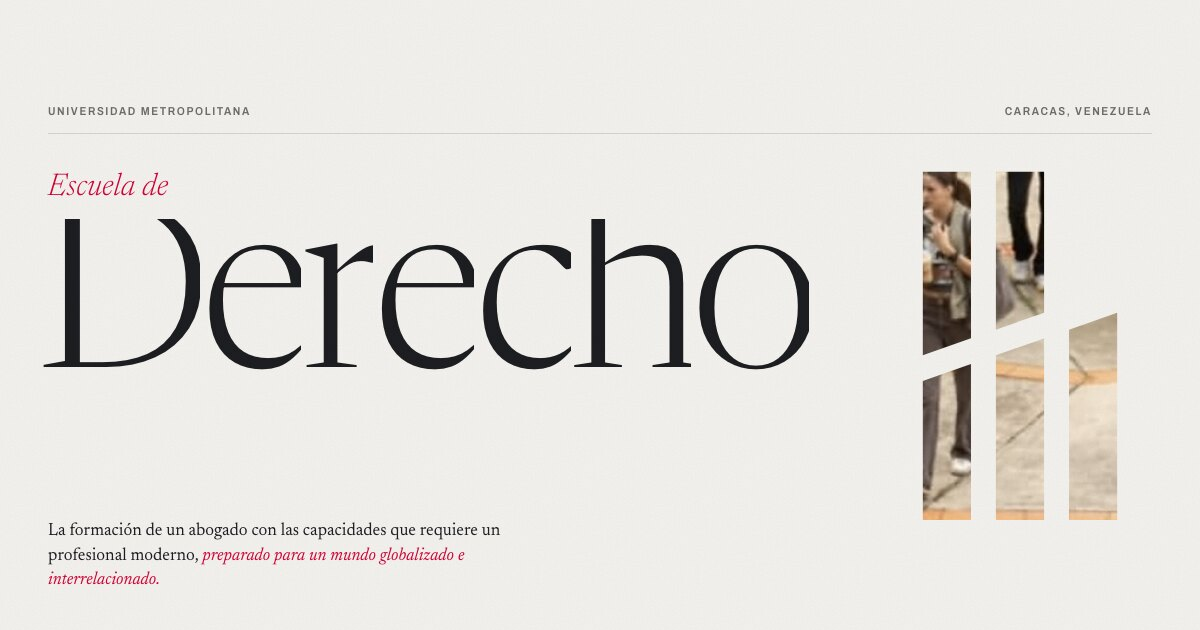
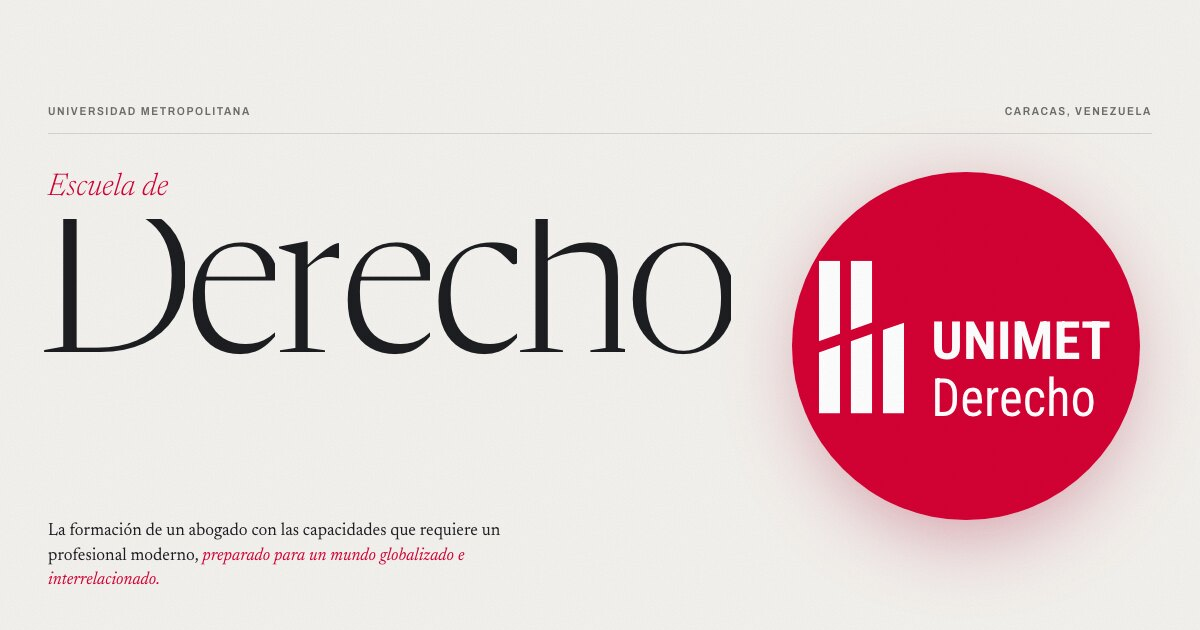
Portada: el sello de la Escuela reemplaza la foto; zoom al lacre

Changed region(s): [[0.0308, 0.2714, 0.9558, 0.8746]]

diff --git a/js/main.js b/js/main.js
@@ -74,38 +74,24 @@
   }
   buildMalla();
 
-  /* ---------- Hero: el isotipo como ventana ---------- */
-  const ISO = [
-    [[0, 0], [62, 0], [62, 214.3], [0, 236]],
-    [[0, 269], [62, 247.3], [62, 448], [0, 448]],
-    [[94, 0], [156, 0], [156, 181.4], [94, 203.1]],
-    [[94, 236.1], [156, 214.4], [156, 448], [94, 448]],
-    [[188, 203.2], [250, 181.5], [250, 448], [188, 448]]
-  ];
-  const hero = { scaleMax: 20, origin: [0, 0] };
-  const cover = $('.hero__cover');
-  const coverPath = $('.js-cover');
+  /* ---------- Hero: entrar en el sello de la Escuela ---------- */
+  // Punto de entrada: zona roja limpia bajo "Derecho" (en coordenadas del logo, 804 x 804).
+  const ENTRY = [402 / 804, 700 / 804], CLEAR = 104 / 804;
+  const hero = { scaleMax: 20 };
+  const seal = $('.js-seal');
   const stage = $('.hero__stage');
-  const shade = document.createElement('div');
-  shade.className = 'hero__shade';
-  Object.assign(shade.style, { position: 'absolute', inset: '0', background: 'linear-gradient(180deg, rgba(20,20,22,.15), rgba(20,20,22,.72))', opacity: 0, pointerEvents: 'none' });
-  $('.hero__photo').after(shade);
 
   function layoutHero() {
     const W = stage.clientWidth, H = stage.clientHeight;
     const slot = $('.js-iso-slot').getBoundingClientRect();
     const sr = stage.getBoundingClientRect();
-    const sw = slot.width, sh = Math.max(slot.height, 120);
-    const k = Math.min(sw / 250, sh / 448);
-    const x0 = slot.left - sr.left + (sw - 250 * k) / 2;
-    const y0 = slot.top - sr.top + (sh - 448 * k) / 2;
-    const p = ISO.map(poly => 'M' + poly.map(([x, y]) => `${(x0 + x * k).toFixed(2)} ${(y0 + y * k).toFixed(2)}`).join('L') + 'Z').join('');
-    cover.setAttribute('viewBox', `0 0 ${W} ${H}`);
-    coverPath.setAttribute('d', `M-40000 -40000H40000V40000H-40000Z${p}`);
-    const px = x0 + 125 * k, py = y0 + 340 * k;
-    hero.origin = [px, py];
-    hero.scaleMax = Math.max(px / (31 * k), (W - px) / (31 * k), py / (103.9 * k), (H - py) / (108 * k)) * 1.06;
-    gsap.set(cover, { transformOrigin: `${px}px ${py}px` });
+    const size = Math.max(140, Math.min(slot.width, slot.height));
+    const x = slot.left - sr.left + (slot.width - size) / 2;
+    const y = slot.top - sr.top + (slot.height - size) / 2;
+    gsap.set(seal, { left: x, top: y, width: size, height: size, transformOrigin: `${ENTRY[0] * 100}% ${ENTRY[1] * 100}%` });
+    const px = x + ENTRY[0] * size, py = y + ENTRY[1] * size;
+    const far = Math.max(Math.hypot(px, py), Math.hypot(W - px, py), Math.hypot(px, H - py), Math.hypot(W - px, H - py));
+    hero.scaleMax = far / (CLEAR * size) * 1.08;
   }
 
   /* ---------- Loader ---------- */
@@ -115,7 +101,7 @@
     gsap.set(titleSplit.chars, { yPercent: 110 });
     gsap.set(['.hero__meta', '.hero__kicker', '.hero__lede', '.hero__scroll'], { autoAlpha: 0, y: 24 });
     gsap.set('.header', { yPercent: -120 });
-    gsap.set(cover, { scale: 1.06 });
+    gsap.set(seal, { scale: .55, rotate: -14, autoAlpha: 0 });
 
     const done = () => {
       document.body.classList.remove('is-loading');
@@ -127,7 +113,8 @@
     if (reduce) {
       gsap.set(titleSplit.chars, { yPercent: 0 });
       gsap.set(['.hero__meta', '.hero__kicker', '.hero__lede', '.hero__scroll'], { autoAlpha: 1, y: 0 });
-      gsap.set(['.header', cover], { clearProps: 'transform' });
+      gsap.set('.header', { clearProps: 'transform' });
+      gsap.set(seal, { scale: 1, rotate: 0, autoAlpha: 1 });
       done();
       return;
     }
@@ -140,7 +127,7 @@
       .to('.loader__logo', { scale: .94, duration: .18, ease: 'power2.in' }, 1.75)
       .to('.loader__logo', { scale: 1, duration: .9, ease: 'elastic.out(1, .5)' }, 1.93)
       .to(loader, { clipPath: 'inset(0 0 100% 0)', duration: 1.15, ease: 'expo.inOut' }, 2.25)
-      .to(cover, { scale: 1, duration: 1.6, ease: 'expo.out' }, 2.55)
+      .to(seal, { scale: 1, rotate: 0, autoAlpha: 1, duration: 1.8, ease: 'expo.out' }, 2.5)
       .to(titleSplit.chars, { yPercent: 0, duration: 1.3, stagger: .045 }, 2.75)
       .to(['.hero__meta', '.hero__kicker', '.hero__lede', '.hero__scroll'], { autoAlpha: 1, y: 0, duration: 1.1, stagger: .08 }, 2.9)
       .to('.header', { yPercent: 0, duration: 1.1 }, 3.0);
@@ -218,7 +205,7 @@
 
   /* ---------- Animaciones de scroll ---------- */
   function scrollAnims() {
-    // Hero: entrar por la columna central del isotipo
+    // Hero: la cámara entra en el sello hasta llenar la pantalla de lacre
     layoutHero();
     const zoom = { p: 0 };
     gsap.timeline({
@@ -226,19 +213,21 @@
         trigger: '.hero', start: 'top top', end: 'bottom bottom', scrub: true,
         invalidateOnRefresh: true,
         onRefresh: layoutHero,
-        onUpdate: s => { const l = s.progress > .55 && s.progress < 1; if (l !== heroLight) { heroLight = l; paintHeader(); } }
+        onUpdate: s => { const l = s.progress > .4 && s.progress < 1; if (l !== heroLight) { heroLight = l; paintHeader(); } }
       }
     })
       .to('.hero__copy', { yPercent: -8, autoAlpha: 0, ease: 'power2.in', duration: .22 }, 0)
       .to(zoom, {
-        p: 1, duration: .62, ease: 'power2.inOut',
-        onUpdate: () => gsap.set(cover, { scale: Math.pow(hero.scaleMax, zoom.p) })
+        p: 1, duration: .46, ease: 'power1.in',
+        onUpdate: () => {
+          gsap.set(seal, { scale: Math.pow(hero.scaleMax, zoom.p) });
+          seal.classList.toggle('is-zoom', zoom.p > .02);
+        }
       }, .04)
-      .to('.hero__photo img', { scale: 1, duration: .7, ease: 'none' }, 0)
-      .to(cover, { autoAlpha: 0, duration: .04 }, .66)
-      .to(shade, { opacity: 1, duration: .2 }, .6)
-      .fromTo('.hero__after', { autoAlpha: 0, y: 50 }, { autoAlpha: 1, y: 0, duration: .22, ease: 'power2.out' }, .7)
-      .to({}, { duration: .08 });
+      .set(stage, { backgroundColor: '#D40134' }, .5)
+      .set(seal, { autoAlpha: 0 }, .505)
+      .fromTo('.hero__after > *', { autoAlpha: 0, y: 60 }, { autoAlpha: 1, y: 0, duration: .2, stagger: .04, ease: 'power2.out' }, .44)
+      .to({}, { duration: .25 });
 
     // Títulos por líneas
     $$('.js-lines').forEach(el => {

diff --git a/css/style.css b/css/style.css
@@ -141,6 +141,8 @@ body::after {
 .header__nav a:hover::after { transform: scaleX(1); transform-origin: left; }
 .header__cta { padding: 11px 18px; border-radius: 999px; background: var(--lacre); color: #fff; transition: background .3s; }
 .header__cta:hover { background: var(--lacre-deep); }
+.header.is-light .header__cta { background: #fff; color: var(--lacre); }
+.header.is-light .brand__logo { border-radius: 50%; box-shadow: 0 0 0 1.5px rgba(255,255,255,.8); }
 .header__index { display: flex; align-items: center; gap: 10px; position: relative; padding: 8px 0; }
 .header__index i { display: block; width: 22px; height: 1.5px; background: currentColor; transition: transform .5s var(--ease); }
 .header__index i + i { position: absolute; right: 0; top: calc(50% + 4px); width: 14px; }
@@ -176,17 +178,17 @@ body::after {
 
 /* ---------- Hero ---------- */
 .hero { position: relative; height: calc(var(--vh) * 2.6); }
-.hero__stage { position: sticky; top: 0; height: var(--vh); overflow: hidden; background: var(--carbon); }
-.hero__photo { position: absolute; inset: 0; }
-.hero__photo img { width: 100%; height: 100%; object-fit: cover; object-position: 50% 45%; transform: scale(1.18); will-change: transform; }
-.hero__photo::after { content: ""; position: absolute; inset: 0; background: linear-gradient(180deg, rgba(20,20,22,.1), rgba(20,20,22,.55)); opacity: 0; transition: none; }
-.hero__cover { position: absolute; inset: 0; width: 100%; height: 100%; overflow: visible; fill: var(--paper); }
-.hero__copy { position: absolute; inset: 0; padding: 104px var(--gutter) 36px; display: grid; grid-template-columns: 1fr minmax(160px, 22vw); grid-template-rows: auto auto 1fr auto; column-gap: 4vw; }
+.hero__stage { position: sticky; top: 0; height: var(--vh); overflow: hidden; background: var(--paper); }
+.hero__seal { position: absolute; left: 0; top: 0; width: 300px; height: 300px; z-index: 1; border-radius: 50%; }
+.hero__seal::before { content: ""; position: absolute; inset: 6% 4% -4%; border-radius: 50%; background: rgba(163, 0, 42, .35); filter: blur(40px); z-index: -1; transition: opacity .4s; }
+.hero__seal svg { display: block; width: 100%; height: 100%; }
+.hero__seal.is-zoom::before { opacity: 0; }
+.hero__copy { position: absolute; inset: 0; z-index: 2; padding: 104px var(--gutter) 36px; display: grid; grid-template-columns: 1fr minmax(220px, 31vw); grid-template-rows: auto auto 1fr auto; column-gap: 4vw; }
 .hero__meta { grid-column: 1 / -1; display: flex; justify-content: space-between; color: var(--muted); padding-bottom: 14px; border-bottom: 1px solid var(--rule); }
 .hero__kicker { grid-column: 1; margin-top: clamp(32px, 6vh, 72px); margin-bottom: .5em; font-size: clamp(24px, 2.6vw, 42px); font-weight: 300; color: var(--lacre); line-height: 1; }
 .hero__title {
   grid-column: 1; grid-row: 3; align-self: start;
-  font-weight: 300; font-size: clamp(88px, 19.5vw, 330px); line-height: .8; letter-spacing: -.055em;
+  font-weight: 300; font-size: clamp(88px, 17.5vw, 300px); line-height: .8; letter-spacing: -.055em;
   font-variation-settings: "opsz" 72; margin-left: -.05em; white-space: nowrap;
 }
 .hero__title .ch { display: inline-block; }
@@ -197,8 +199,11 @@ body::after {
 .hero__scroll-line { width: 40px; height: 1px; background: currentColor; position: relative; overflow: hidden; }
 .hero__scroll-line::after { content: ""; position: absolute; inset: 0; background: var(--lacre); animation: scrollLine 2.2s var(--ease) infinite; }
 @keyframes scrollLine { 0% { transform: translateX(-100%); } 60%, 100% { transform: translateX(100%); } }
-.hero__after { position: absolute; left: var(--gutter); right: var(--gutter); bottom: clamp(40px, 9vh, 96px); color: #fff; opacity: 0; }
-.hero__after .label { opacity: .8; margin-bottom: 18px; }
+.hero__after { position: absolute; z-index: 3; left: var(--gutter); right: var(--gutter); bottom: clamp(40px, 9vh, 96px); color: #fff; }
+.hero__after > * { opacity: 0; visibility: hidden; }
+.hero__after-logo, .contacto__unimet { --iso: #fff; }
+.hero__after-logo { display: block; width: 170px; height: 67px; color: #fff; margin-bottom: clamp(28px, 5vh, 56px); }
+.hero__after .label { color: rgba(255,255,255,.8); margin-bottom: 18px; }
 .hero__after-title { font-size: clamp(44px, 7.6vw, 128px); font-weight: 300; line-height: .95; letter-spacing: -.03em; max-width: 11em; }
 .hero__after-title em { font-weight: 300; }
 

diff --git a/index.html b/index.html
@@ -33,7 +33,7 @@
       </symbol>
       <!-- Logo institucional Universidad Metropolitana -->
       <symbol id="logo-unimet" viewBox="0 0 1230 486">
-        <use href="#iso" x="0" y="0" width="250" height="448" color="#FF8200"/>
+        <use href="#iso" x="0" y="0" width="250" height="448" style="color: var(--iso, #FF8200)"/>
         <text x="306" y="290" font-family="Roboto Condensed, Archivo, sans-serif" font-weight="400" font-size="159" fill="currentColor" textLength="757" lengthAdjust="spacingAndGlyphs">Universidad</text>
         <text x="306" y="444" font-family="Roboto Condensed, Archivo, sans-serif" font-weight="700" font-size="159" fill="currentColor" textLength="919" lengthAdjust="spacingAndGlyphs">Metropolitana</text>
       </symbol>
@@ -107,8 +107,7 @@
     <!-- HERO: entrar por las columnas -->
     <section class="hero" id="inicio" data-head="dark">
       <div class="hero__stage">
-        <div class="hero__photo"><img src="img/campus-caminata.jpg" alt="Estudiantes caminando junto al letrero UNIMET en el campus de la Universidad Metropolitana" fetchpriority="high"></div>
-        <svg class="hero__cover" aria-hidden="true"><path class="js-cover" fill-rule="evenodd"/></svg>
+        <div class="hero__seal js-seal"><svg role="img" aria-label="Logo UNIMET Derecho"><use href="#logo-derecho"/></svg></div>
 
         <div class="hero__copy">
           <p class="hero__meta label"><span>Universidad Metropolitana</span><span>Caracas, Venezuela</span></p>
@@ -120,6 +119,7 @@
         </div>
 
         <div class="hero__after">
+          <svg class="hero__after-logo" role="img" aria-label="Universidad Metropolitana"><use href="#logo-unimet"/></svg>
           <p class="label">Facultad de Estudios Jurídicos y Políticos</p>
           <p class="hero__after-title">Abogados para un mundo <em>interrelacionado.</em></p>
         </div>
